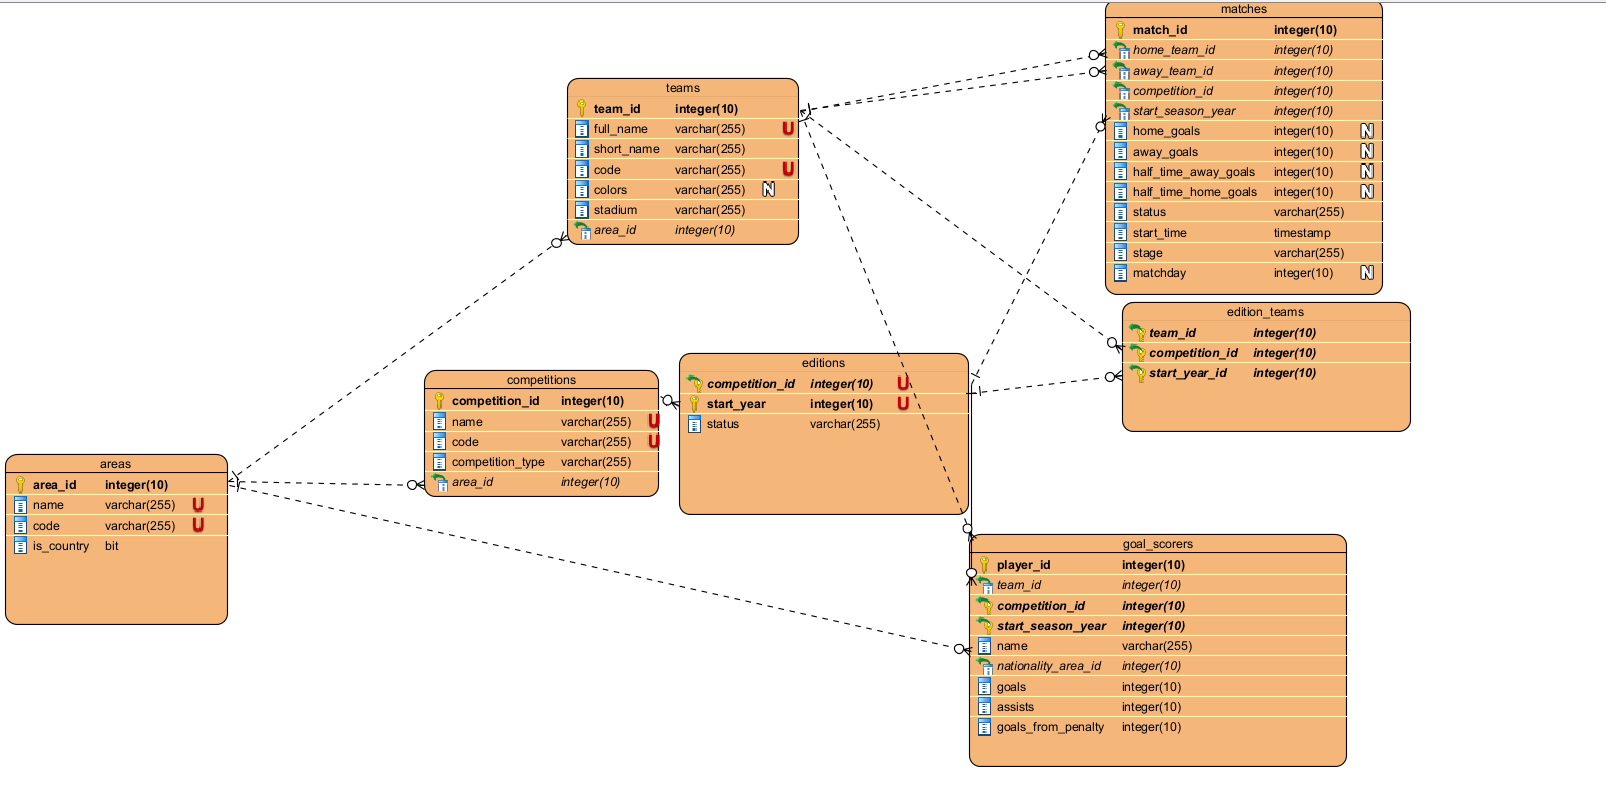
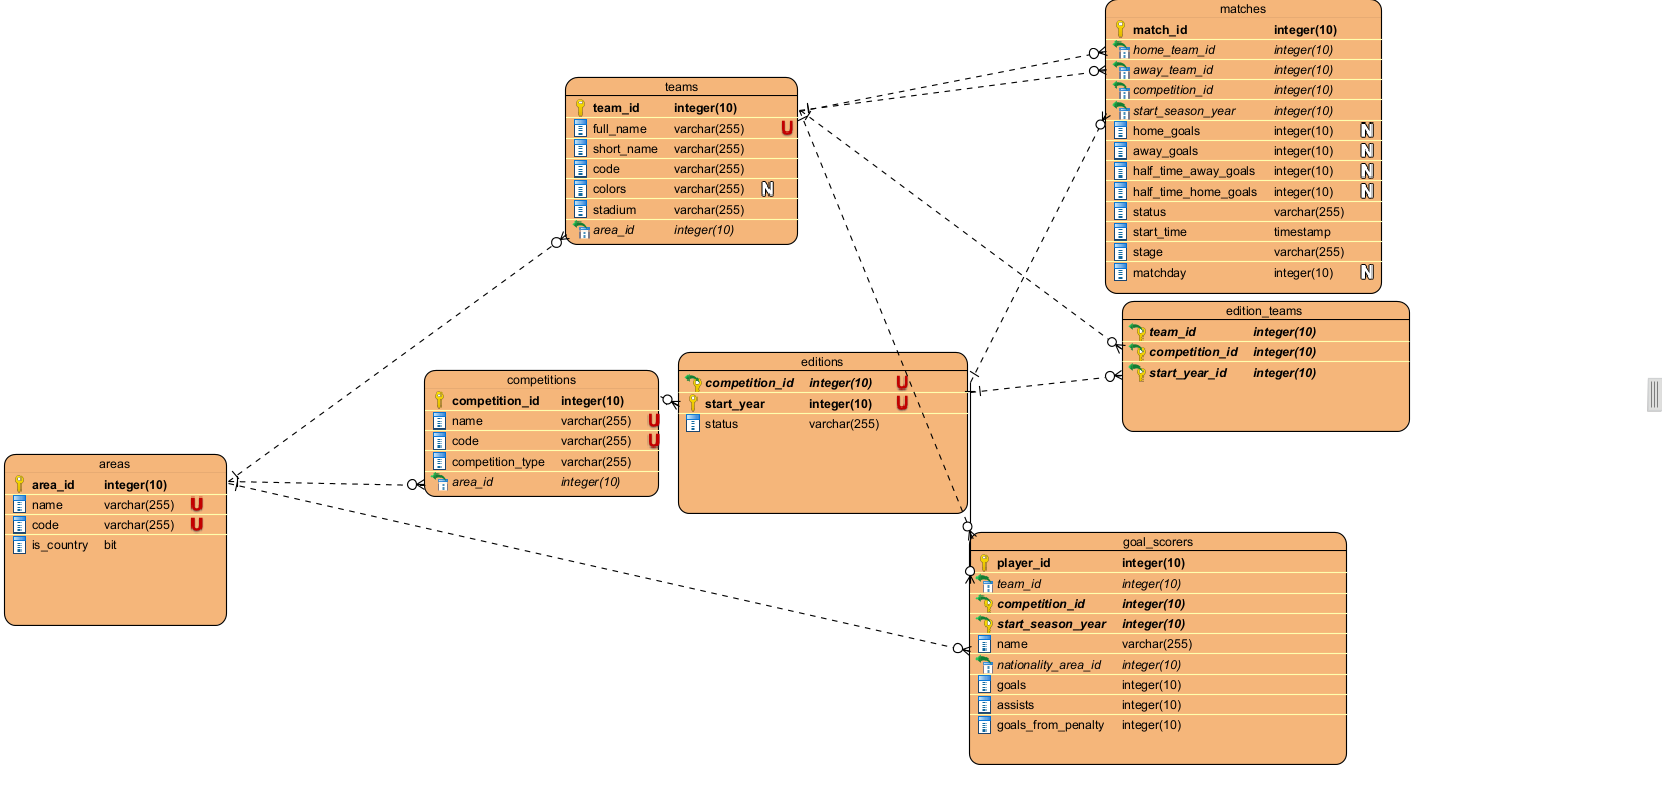
limit football data api requests (#47)

diff --git a/backend/internal/api/rate_limited_http_client.go b/backend/internal/api/rate_limited_http_client.go
@@ -1,0 +1,63 @@
+package api
+
+import (
+	"log"
+	"net/http"
+	"strconv"
+	"time"
+)
+
+const cooldownSeconds = 5
+const cooldown = time.Duration(cooldownSeconds) * time.Second
+
+type RateLimitedHTTPClient struct {
+	httpClient   HttpClient
+	blockedUntil time.Time
+}
+
+func newRateLimitedHTTPClient(timeout time.Duration) *RateLimitedHTTPClient {
+	return &RateLimitedHTTPClient{
+		httpClient:   &http.Client{Timeout: timeout},
+		blockedUntil: time.Now(),
+	}
+}
+
+func (c *RateLimitedHTTPClient) Do(req *http.Request) (*http.Response, error) {
+	c.wait()
+
+	resp, err := c.httpClient.Do(req)
+	if err != nil {
+		return nil, err
+	}
+
+	c.notify(resp)
+	return resp, nil
+}
+
+func (c *RateLimitedHTTPClient) wait() {
+	waitTime := time.Until(c.blockedUntil)
+	if waitTime > 0 {
+		log.Printf("wait %s seconds to next request", waitTime.Round(time.Second))
+		time.Sleep(waitTime)
+	}
+}
+
+func (c *RateLimitedHTTPClient) notify(resp *http.Response) {
+	available, err := strconv.Atoi(resp.Header.Get("x-requests-available-minute"))
+
+	if err != nil {
+		log.Printf("Not found number of available requests")
+		return
+	}
+	if available > 0 {
+		return
+	}
+
+	resetSeconds, err := strconv.Atoi(resp.Header.Get("X-RequestCounter-Reset"))
+	if err != nil {
+		log.Printf("Not found time in sec to refresh counter")
+		return
+	}
+
+	c.blockedUntil = time.Now().Add(time.Duration(resetSeconds)*time.Second + cooldown)
+}

diff --git a/backend/internal/database/models.go b/backend/internal/database/models.go
@@ -3,7 +3,7 @@ package database
 import "time"
 
 type Area struct {
-	AreaID    int `gorm:"primaryKey"`
+	AreaID    int    `gorm:"primaryKey"`
 	Name      string `gorm:"not null;unique"`
 	Code      string `gorm:"not null;unique"`
 	IsCountry bool   `gorm:"not null"`
@@ -31,7 +31,7 @@ type Team struct {
 
 	FullName  string `gorm:"not null;unique"`
 	ShortName string `gorm:"not null"`
-	Code      string `gorm:"not null;unique"`
+	Code      string `gorm:"not null"`
 	Colors    string
 
 	Stadium string `gorm:"not null"`
@@ -48,7 +48,7 @@ type Edition struct {
 	CompetitionID int `gorm:"primaryKey"`
 	Competition   Competition
 
-	StartYear int `gorm:"primaryKey"`
+	StartYear int    `gorm:"primaryKey"`
 	Status    string `gorm:"not null"`
 
 	Matches     []Match      `gorm:"foreignKey:CompetitionID,StartSeasonYear;references:CompetitionID,StartYear"`
@@ -95,7 +95,7 @@ type GoalScorer struct {
 
 	Name string `gorm:"not null"`
 
-	NationalityAreaID int `gorm:"not null"`
+	NationalityAreaID int  `gorm:"not null"`
 	NationalityArea   Area `gorm:"foreignKey:NationalityAreaID"`
 
 	Goals            int `gorm:"not null"`

diff --git a/backend/cmd/api/main.go b/backend/cmd/api/main.go
@@ -12,7 +12,7 @@ import (
 
 const (
 	resetDatabaseOnStart = false
-	tryFetchData         = true
+	tryFetchData         = false
 )
 
 func main() {
@@ -69,9 +69,23 @@ func fetchData(db *database.Client) error {
 	api := api.NewClientFromEnv()
 	ctx := context.Background()
 	worker := sync.New(api, db)
-	target := sync.SeasonTarget{
+	targets := []sync.SeasonTarget{{
 		CompetitionCode: "PL",
 		StartYear:       2026,
+	}, {
+		CompetitionCode: "PD",
+		StartYear:       2026,
+	}, {
+		CompetitionCode: "BL1",
+		StartYear:       2026,
+	}, {
+		CompetitionCode: "SA",
+		StartYear:       2026,
+	}, {
+		CompetitionCode: "FL1",
+		StartYear:       2026,
+	},
 	}
-	return worker.InitializeData(ctx, sync.SeasonTargets{target})
+
+	return worker.InitializeData(ctx, targets)
 }

diff --git a/backend/internal/api/client.go b/backend/internal/api/client.go
@@ -35,7 +35,7 @@ func NewClientFromEnv() *Client {
 	config := NewConfigFromEnv()
 	return &Client{
 		config:     config,
-		httpClient: &http.Client{Timeout: config.Timeout},
+		httpClient: newRateLimitedHTTPClient(config.Timeout),
 	}
 }
 
@@ -62,10 +62,11 @@ func (c *Client) fetchWithQuery(path string, out any, queryParamsToAdd map[strin
 		return fmt.Errorf("failed to send request: %w", err)
 	}
 
+	defer resp.Body.Close()
+
 	if resp.StatusCode != http.StatusOK {
 		return fmt.Errorf("request failed with status %s", resp.Status)
 	}
-	defer resp.Body.Close()
 	if err := json.NewDecoder(resp.Body).Decode(out); err != nil {
 		return fmt.Errorf("failed to decode response from %s: %w", path, err)
 	}

diff --git a/backend/internal/sync/init_data.go b/backend/internal/sync/init_data.go
@@ -248,5 +248,9 @@ func (s *Sync) initGoalScorers(ctx context.Context, season Season, limit int) er
 		})
 	}
 
+	if len(apiGoalScorers) == 0 {
+		return nil
+	}
+
 	return s.databaseClient.Save(ctx, dbGoalScorers)
 }
